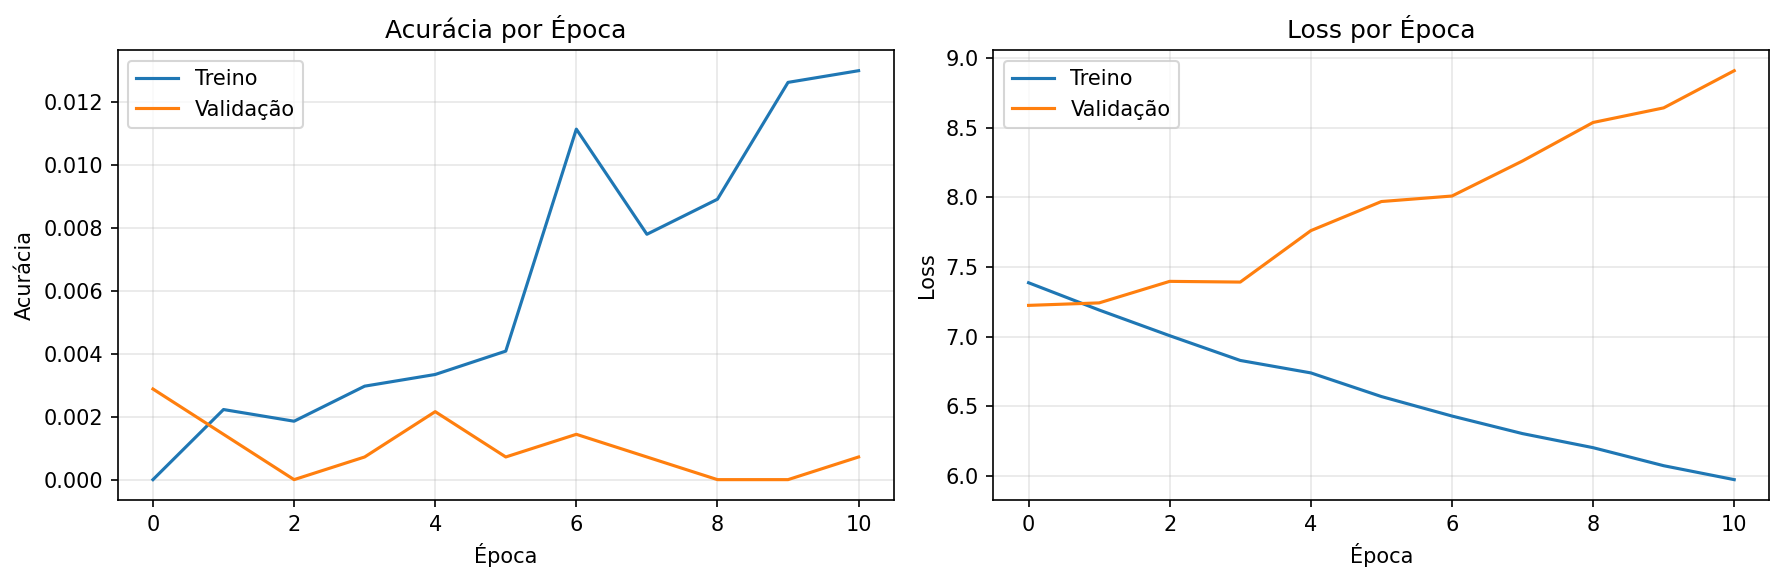
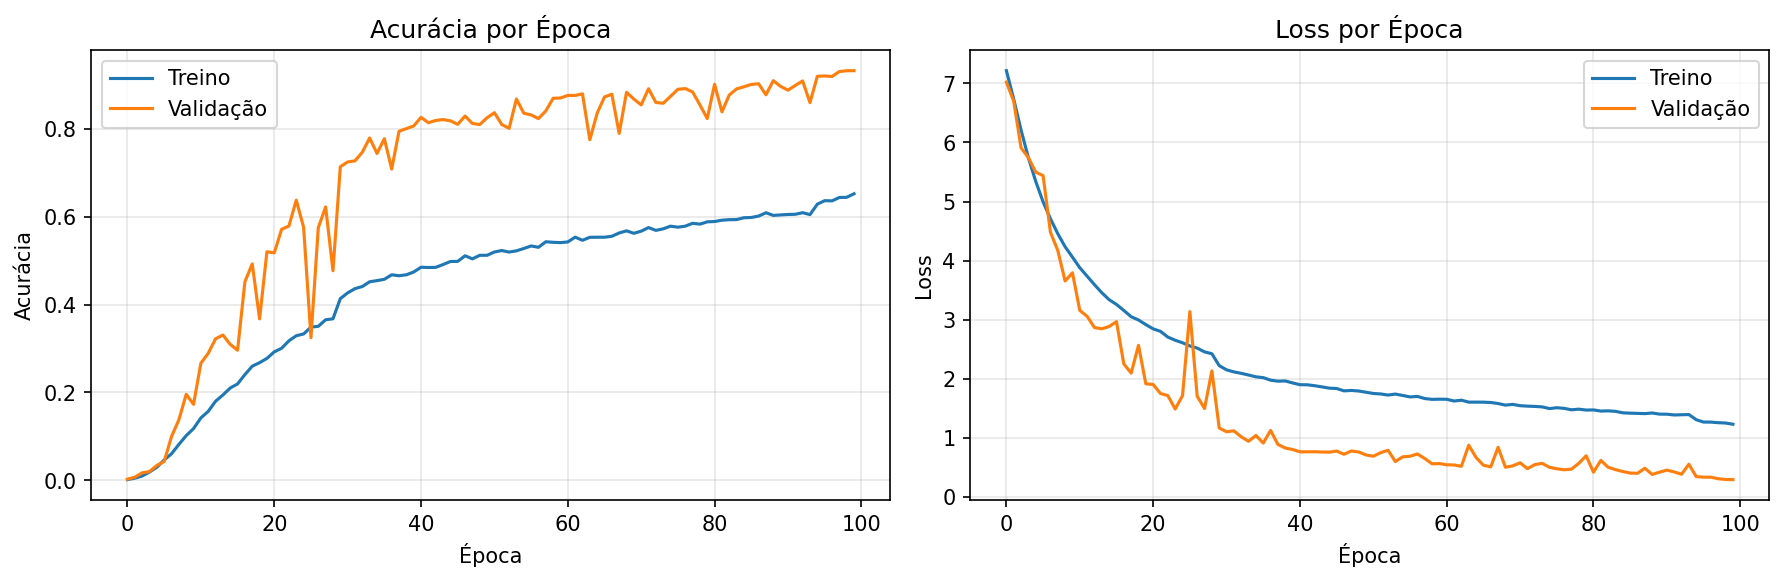
Ajustes interface

diff --git a/src/interface/app.py b/src/interface/app.py
@@ -18,7 +18,7 @@ import numpy as np
 import os
 import sys
 import time
-from collections import deque
+from collections import deque, Counter
 
 sys.path.insert(0, os.path.join(os.path.dirname(__file__), ".."))
 from config import (
@@ -27,7 +27,7 @@ from config import (
     PREDICTION_THRESHOLD, TTS_LANG,
 )
 
-# ── Importações opcionais ─────────────────────────────────────────────────
+# ── Importações opcionais ──────────────────────────────────────────────────────
 try:
     import mediapipe as mp
 except ImportError:
@@ -55,14 +55,12 @@ if TTS_ENGINE is None:
         TTS_ENGINE = "gtts"
     except ImportError:
         print("[AVISO] Nenhum motor TTS disponível. Áudio desativado.")
-        print("        Instale: pip install pyttsx3  ou  pip install gTTS")
 
 
-# ── MediaPipe setup ──────────────────────────────────────────────────────
+# ── MediaPipe setup ────────────────────────────────────────────────────────────
 mp_holistic = mp.solutions.holistic
 mp_drawing  = mp.solutions.drawing_utils
 
-# Mapeamento sinal → texto para falar em voz alta
 SPOKEN_TEXT = {
     "ola":       "Olá!",
     "obrigado":  "Obrigado!",
@@ -72,16 +70,17 @@ SPOKEN_TEXT = {
     "nao":       "Não",
 }
 
+# ── Parâmetros anti-falso-positivo ─────────────────────────────────────────────
+VOTES_REQUIRED  = 3     # sinal precisa aparecer N vezes seguidas para ser aceito
+MIN_HAND_FRAMES = 20    # mínimo de frames com mão detectada no buffer para predizer
+
 
 def speak(text: str):
-    """Sintetiza o texto em áudio usando o motor disponível."""
     if TTS_ENGINE is None:
         return
-
     if TTS_ENGINE == "pyttsx3":
         engine = pyttsx3.init()
         voices = engine.getProperty("voices")
-        # Tenta selecionar voz em pt-BR
         for v in voices:
             if "brazil" in v.id.lower() or "pt" in v.id.lower():
                 engine.setProperty("voice", v.id)
@@ -89,16 +88,12 @@ def speak(text: str):
         engine.setProperty("rate", 150)
         engine.say(text)
         engine.runAndWait()
-
     elif TTS_ENGINE == "gtts":
         tts = gTTS(text=text, lang=TTS_LANG)
-        tmp = "/tmp/libras_tts.mp3"
+        tmp = os.path.join(os.environ.get("TEMP", "/tmp"), "libras_tts.mp3")
         tts.save(tmp)
-        # Reproduz com mpg123 ou afplay (macOS)
-        for player in ["mpg123", "afplay", "play"]:
-            if os.system(f"which {player} > /dev/null 2>&1") == 0:
-                os.system(f"{player} {tmp} > /dev/null 2>&1")
-                break
+        os.system(f'start /min wmplayer "{tmp}"' if sys.platform == "win32"
+                  else f"mpg123 {tmp} > /dev/null 2>&1")
 
 
 def extract_keypoints(results) -> np.ndarray:
@@ -108,7 +103,8 @@ def extract_keypoints(results) -> np.ndarray:
                     dtype=np.float32).flatten() if results.left_hand_landmarks else np.zeros(63, dtype=np.float32)
     rh   = np.array([[lm.x, lm.y, lm.z] for lm in results.right_hand_landmarks.landmark],
                     dtype=np.float32).flatten() if results.right_hand_landmarks else np.zeros(63, dtype=np.float32)
-    return np.concatenate([pose, lh, rh])
+    return np.concatenate([pose, lh, rh]), (results.left_hand_landmarks is not None or
+                                             results.right_hand_landmarks is not None)
 
 
 def draw_landmarks(image, results):
@@ -127,33 +123,36 @@ def draw_landmarks(image, results):
                                   mp_drawing.DrawingSpec(color=(80, 44, 121), thickness=2))
 
 
-def draw_ui(frame, current_word: str, confidence: float, history: list[str]):
+def draw_ui(frame, current_word, confidence, history, hand_detected, hand_frames):
     h, w = frame.shape[:2]
     overlay = frame.copy()
-
-    # Painel superior
     cv2.rectangle(overlay, (0, 0), (w, 70), (40, 40, 40), -1)
     cv2.addWeighted(overlay, 0.7, frame, 0.3, 0, frame)
 
-    cv2.putText(frame, "TRADUTOR DE LIBRAS — IA",
+    cv2.putText(frame, "TRADUTOR DE LIBRAS - IA",
                 (10, 25), cv2.FONT_HERSHEY_SIMPLEX, 0.7, (255, 255, 255), 2)
-    cv2.putText(frame, f"[Q] Sair  [R] Reset  [ESPACO] Falar",
+    cv2.putText(frame, "[Q] Sair  [R] Reset  [ESPACO] Falar",
                 (10, 55), cv2.FONT_HERSHEY_SIMPLEX, 0.45, (200, 200, 200), 1)
 
-    # Sinal atual
-    if current_word:
-        color  = (0, 255, 0) if confidence >= PREDICTION_THRESHOLD else (0, 200, 255)
-        label  = SPOKEN_TEXT.get(current_word, current_word)
-        cv2.putText(frame, f"> {label}",
-                    (10, h - 80), cv2.FONT_HERSHEY_SIMPLEX, 1.4, color, 3)
-        cv2.putText(frame, f"Confianca: {confidence*100:.1f}%",
-                    (10, h - 40), cv2.FONT_HERSHEY_SIMPLEX, 0.6, color, 2)
+    # Indicador de mão detectada
+    hand_color = (0, 255, 0) if hand_detected else (0, 0, 255)
+    hand_text  = f"Maos: {'DETECTADAS' if hand_detected else 'NAO DETECTADAS'}  ({hand_frames}/{FRAMES_PER_SEQUENCE} frames)"
+    cv2.putText(frame, hand_text, (10, 90),
+                cv2.FONT_HERSHEY_SIMPLEX, 0.5, hand_color, 1)
 
-    # Histórico de sinais
+    if current_word:
+        label = SPOKEN_TEXT.get(current_word, current_word)
+        cv2.putText(frame, f"> {label}",
+                    (10, h - 80), cv2.FONT_HERSHEY_SIMPLEX, 1.4, (0, 255, 0), 3)
+        cv2.putText(frame, f"Confianca: {confidence*100:.1f}%",
+                    (10, h - 40), cv2.FONT_HERSHEY_SIMPLEX, 0.6, (0, 255, 0), 2)
+    else:
+        cv2.putText(frame, "Aguardando sinal...",
+                    (10, h - 60), cv2.FONT_HERSHEY_SIMPLEX, 0.8, (150, 150, 150), 1)
+
     hist_str = "  |  ".join(history[-5:]) if history else "—"
     cv2.putText(frame, f"Historico: {hist_str}",
                 (10, h - 10), cv2.FONT_HERSHEY_SIMPLEX, 0.45, (180, 180, 180), 1)
-
     return frame
 
 
@@ -177,12 +176,15 @@ def run():
         sys.exit(1)
 
     frame_buffer  = deque(maxlen=FRAMES_PER_SEQUENCE)
+    hand_buffer   = deque(maxlen=FRAMES_PER_SEQUENCE)  # rastreia se havia mão em cada frame
+    vote_buffer   = deque(maxlen=VOTES_REQUIRED)        # últimas N predições para votação
     word_history  = []
     current_word  = ""
     confidence    = 0.0
     last_spoken   = ""
     last_speak_t  = 0.0
-    SPEAK_COOLDOWN = 2.5   # segundos entre falas automáticas
+    SPEAK_COOLDOWN = 2.5
+    hand_detected  = False
 
     print("[INÍCIO] Interface iniciada! Pressione Q para sair.\n")
 
@@ -201,31 +203,52 @@ def run():
 
             draw_landmarks(frame, results)
 
-            kp = extract_keypoints(results)
+            kp, hand_now = extract_keypoints(results)
             frame_buffer.append(kp)
+            hand_buffer.append(hand_now)
+            hand_detected = hand_now
 
-            # ── Predição quando o buffer estiver cheio ─────────────────────
+            hand_frames = sum(hand_buffer)  # quantos frames do buffer têm mão
+
+            # ── Predição com filtros anti-falso-positivo ──────────────────────
             if len(frame_buffer) == FRAMES_PER_SEQUENCE:
-                seq = np.expand_dims(np.array(frame_buffer, dtype=np.float32), axis=0)
-                probs      = model.predict(seq, verbose=0)[0]
-                pred_idx   = int(np.argmax(probs))
-                confidence = float(probs[pred_idx])
 
-                if confidence >= PREDICTION_THRESHOLD:
-                    current_word = CLASSES[pred_idx]
+                # FILTRO 1: exige mínimo de frames com mão detectada
+                if hand_frames >= MIN_HAND_FRAMES:
+                    seq   = np.expand_dims(np.array(frame_buffer, dtype=np.float32), axis=0)
+                    probs = model.predict(seq, verbose=0)[0]
+                    pred_idx   = int(np.argmax(probs))
+                    pred_conf  = float(probs[pred_idx])
 
-                    # Fala automática se sinal mudou e cooldown passou
-                    now = time.time()
-                    if (current_word != last_spoken and
-                            now - last_speak_t > SPEAK_COOLDOWN):
-                        text_to_speak = SPOKEN_TEXT.get(current_word, current_word)
-                        print(f"[SINAL] {current_word}  ({confidence*100:.1f}%)  → '{text_to_speak}'")
-                        speak(text_to_speak)
-                        word_history.append(current_word)
-                        last_spoken  = current_word
-                        last_speak_t = now
+                    if pred_conf >= PREDICTION_THRESHOLD:
+                        vote_buffer.append(pred_idx)
 
-            frame = draw_ui(frame, current_word, confidence, word_history)
+                        # FILTRO 2: votação — aceita só se N predições seguidas concordam
+                        if (len(vote_buffer) == VOTES_REQUIRED and
+                                len(set(vote_buffer)) == 1):
+
+                            confidence   = pred_conf
+                            current_word = CLASSES[pred_idx]
+
+                            now = time.time()
+                            if (current_word != last_spoken and
+                                    now - last_speak_t > SPEAK_COOLDOWN):
+                                text_to_speak = SPOKEN_TEXT.get(current_word, current_word)
+                                print(f"[SINAL] {current_word}  ({confidence*100:.1f}%)  → '{text_to_speak}'")
+                                speak(text_to_speak)
+                                word_history.append(current_word)
+                                last_spoken  = current_word
+                                last_speak_t = now
+                    else:
+                        vote_buffer.clear()
+                else:
+                    # Sem mãos suficientes — limpa votos e predição
+                    vote_buffer.clear()
+                    current_word = ""
+                    confidence   = 0.0
+
+            frame = draw_ui(frame, current_word, confidence, word_history,
+                            hand_detected, hand_frames)
             cv2.imshow("Tradutor de Libras — IA", frame)
 
             key = cv2.waitKey(10) & 0xFF
@@ -233,6 +256,8 @@ def run():
                 break
             elif key == ord("r"):
                 frame_buffer.clear()
+                hand_buffer.clear()
+                vote_buffer.clear()
                 current_word = ""
                 confidence   = 0.0
                 print("[RESET] Buffer limpo.")

diff --git a/src/config.py b/src/config.py
@@ -46,5 +46,5 @@ RANDOM_STATE   = 42
 MODEL_FILENAME = "libras_lstm.keras"
 
 # ── Interface ───────────────────────────────────────────────────────────────
-PREDICTION_THRESHOLD = 0.3   # confiança mínima para aceitar predição
+PREDICTION_THRESHOLD = 0.96   # confiança mínima para aceitar predição
 TTS_LANG             = "pt"   # idioma do gTTS